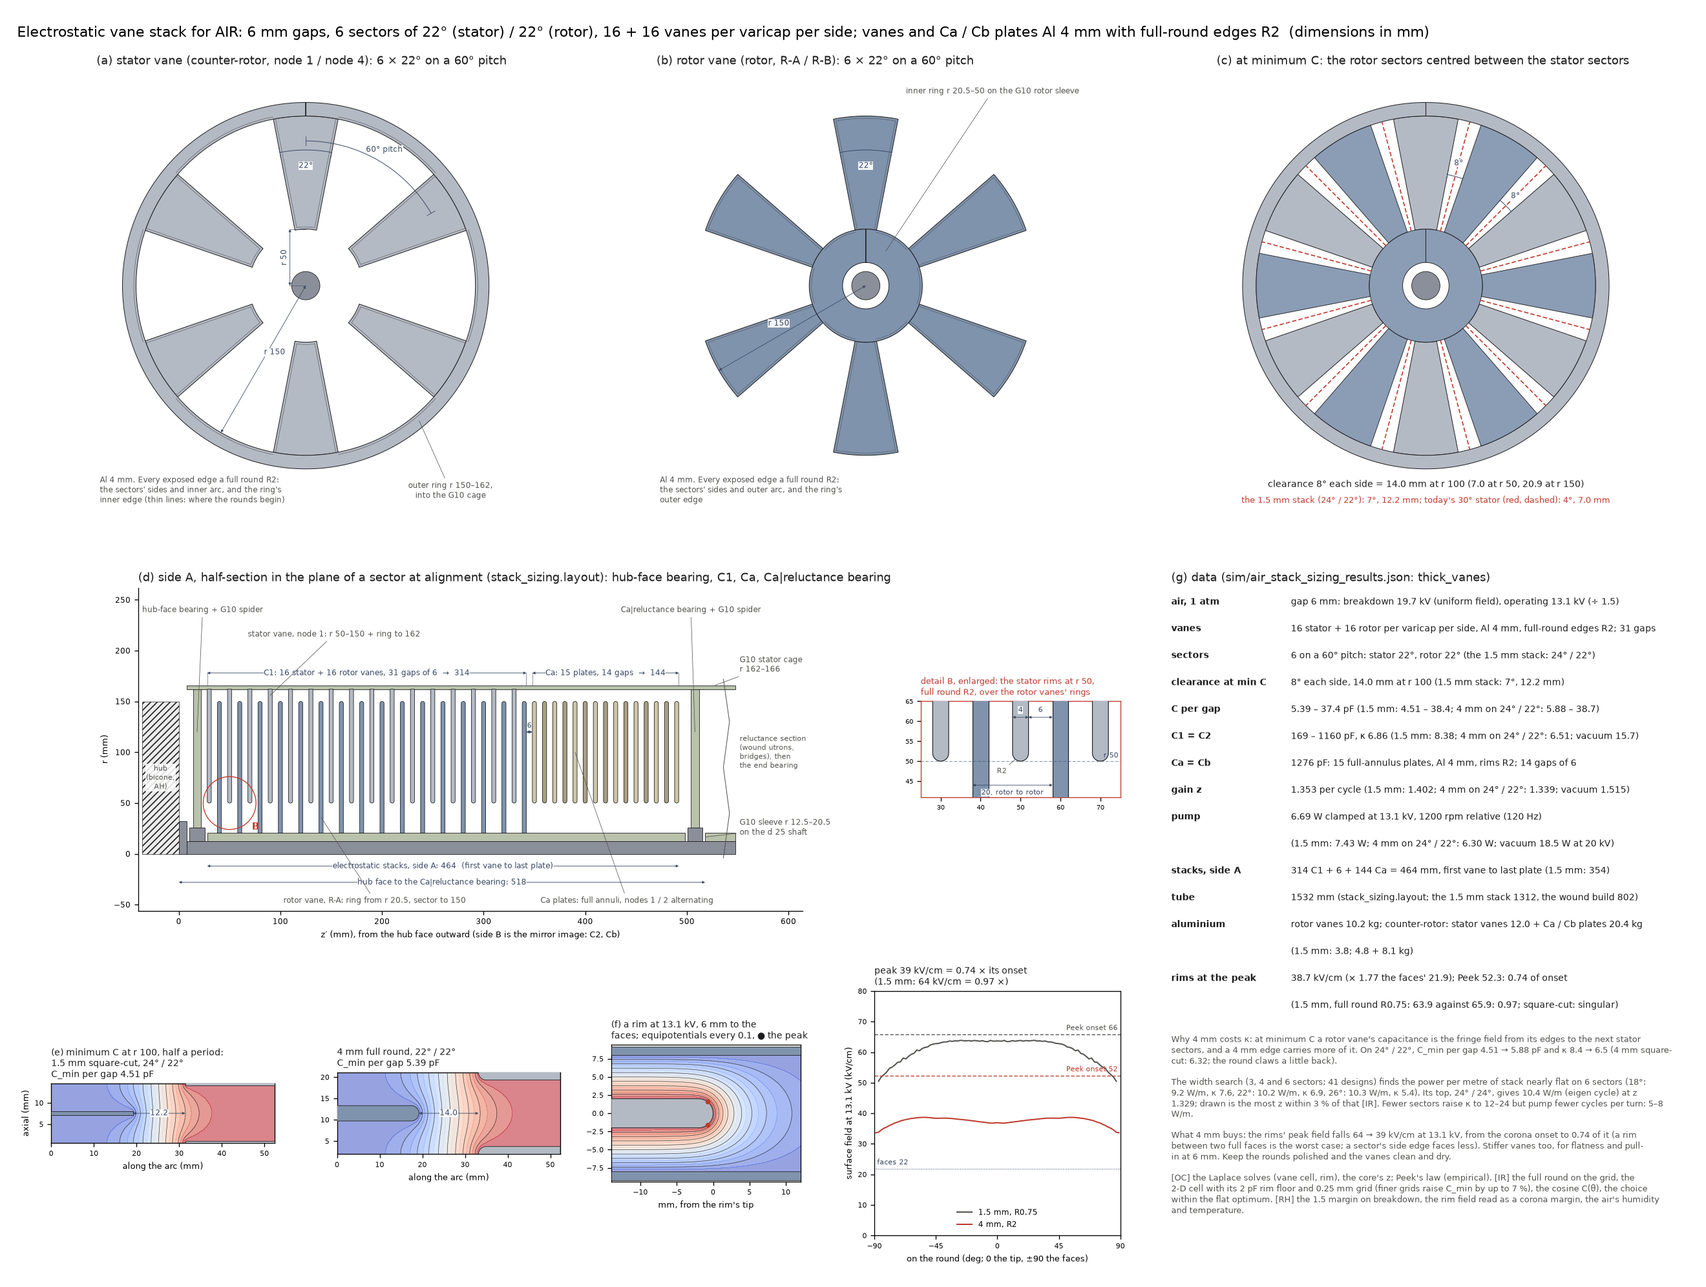
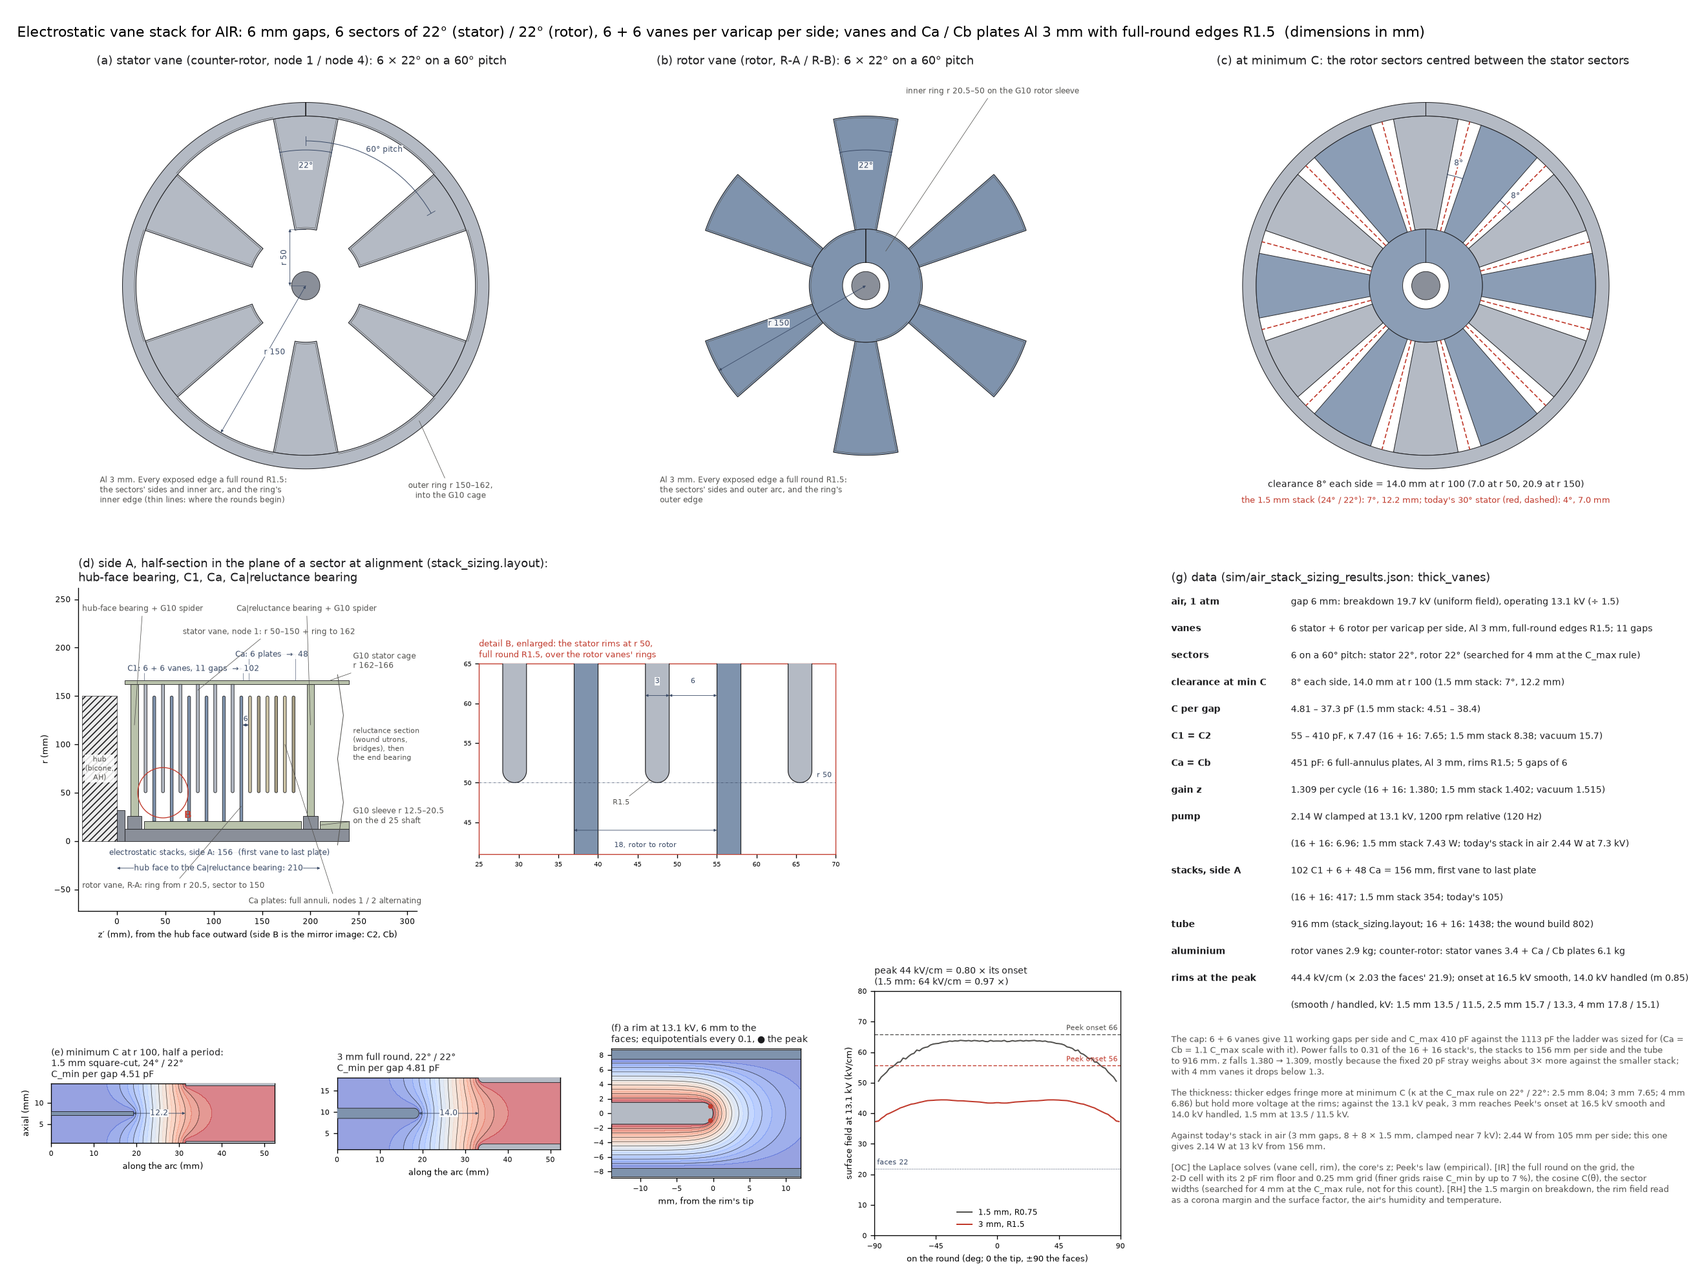
docs: air vane-stack drawing for the capped stack (3 mm full-round, 6 + 6 vanes)
The drawing picks its design on the command line (--t / --n, default
3 mm and 6 + 6) from the stage 4b / 4c results, sizes the half-section
to its stack with detail B beside it, and compares the data against the
same vanes at 16 + 16, the 1.5 mm stack and today's stack in air.

Claude-Session: https://claude.ai/code/session_019kWq1ZtzZgffamNAmjzqBU

diff --git a/docs/make_air_vane_drawing.py b/docs/make_air_vane_drawing.py
@@ -1,12 +1,13 @@
 """docs/make_air_vane_drawing.py -- writes docs/figures/air-vane-stack-6mm.png: the electrostatic vane stack for AIR
-(sim/air_stack_sizing.py, stage 4b 'chosen'): 6 mm gaps, 4 mm Al vanes and Ca / Cb plates with every exposed edge a
-full round (R = t / 2), on the sector widths searched again for those vanes.
+(sim/air_stack_sizing.py, stages 4b / 4c): 6 mm gaps, Al vanes and Ca / Cb plates with every exposed edge a full round
+(R = t / 2), on the sector widths searched for the full-round vanes.
   (a) a stator vane, (b) a rotor vane, (c) both at minimum C, with today's 30 deg stator dashed;
   (d) the half-section of side A from stack_sizing.layout (the elements that are built), with detail B: the rims;
   (e) the vane cell at minimum C at r 100 (sim/vane_cell): the 1.5 mm square-cut 24 / 22 deg stack against this one;
   (f) the rim's field: a vane edge between its neighbours' faces at the operating peak, against Peek's onset;
   (g) the data, from sim/air_stack_sizing_results.json.
-Usage: python3 docs/make_air_vane_drawing.py
+Usage: python3 docs/make_air_vane_drawing.py [--t 3 --n 6]   (the vane thickness and count, from stage 4c's
+       thick_compare rows or stage 4b's 'chosen'; default the designer's capped stack, 3 mm and 6 + 6)
 """
 import json
 import math
@@ -230,6 +231,14 @@ def rim_panel(axm, axp, t_new, g, v_op_kV, peaks):
                   loc="left", color=INK)
 
 
+def section_extent(lad, g):
+    """the half-section's data limits (z', r): from the hub to just past the Ca|reluctance bearing."""
+    el = lad["tube_geometry"]["elements"]
+    zf = [e for e in el if e["kind"] == "hub"][0]["z0"]
+    carel = [e for e in el if e["side"] == "A" and e["kind"] == "bearing" and e["where"] not in ("hub face", "end")][0]
+    return (-40.0, zf - carel["z0"] + g + 24.0 + 70.0), (-72.0, 262.0)
+
+
 def section_panel(ax, axd, lad, q, g):
     """(d) side A from stack_sizing.layout, z' from the hub's face outward; the vanes as sim/tube_geometry builds them
     (stator: sector + outer ring into the cage; rotor: inner ring from the sleeve + sector), full rounds on the rims."""
@@ -273,22 +282,22 @@ def section_panel(ax, axd, lad, q, g):
     v0, v1 = zz(vanes[0])[0], zz(vanes[-1])[1]
     p0, p1 = zz(plates[0])[0], zz(plates[-1])[1]
     n, nca = q["n_plates"], len(plates)
-    dim(ax, (v0, CAGE[1]), (v1, CAGE[1]), f"C1: {n} stator + {n} rotor vanes, {2 * n - 1} gaps of {g:g}  →  {v1 - v0:.0f}",
-        off=(0, 12))
-    dim(ax, (p0, CAGE[1]), (p1, CAGE[1]), f"Ca: {nca} plates, {nca - 1} gaps  →  {p1 - p0:.0f}", off=(0, 12))
+    dim(ax, (v0, CAGE[1]), (v1, CAGE[1]), f"C1: {n} + {n} vanes, {2 * n - 1} gaps  →  {v1 - v0:.0f}", off=(0, 12))
+    dim(ax, (p0, CAGE[1]), (p1, CAGE[1]), f"Ca: {nca} plates  →  {p1 - p0:.0f}", off=(0, 27))
     dim(ax, (v1, 120), (p0, 120), f"{p0 - v1:g}", fs=6.5, tx=(0, 6), ext=False)
     dim(ax, (v0, -12), (p1, -12), f"electrostatic stacks, side A: {p1 - v0:.0f}  (first vane to last plate)", ext=False)
     dim(ax, (0, -28), (zz(carel)[1], -28), f"hub face to the Ca|reluctance bearing: {zz(carel)[1]:.0f}", ext=False)
     note(ax, (0.5 * sum(zz(hubface)), 120), (-36, 236), "hub-face bearing + G10 spider", ha="left", va="bottom")
     note(ax, (0.5 * sum(zz(carel)), 120), (0.5 * sum(zz(carel)) - 4, 236), "Ca|reluctance bearing + G10 spider",
          ha="center", va="bottom")
-    s0 = [e for e in vanes if e["body"] == "stator"][3]
-    r0 = [e for e in vanes if e["body"] == "rotor"][5]
+    s0 = [e for e in vanes if e["body"] == "stator"][min(3, n - 1)]
+    r0 = [e for e in vanes if e["body"] == "rotor"][min(5, n - 1)]
     note(ax, (0.5 * sum(zz(s0)), 156), (v0 + 40, 212), f"stator vane, node 1: r {R_IN:g}–{R_OUT:g} + ring to "
          f"{R_OUT + RING:g}", ha="left", va="bottom")
-    note(ax, (0.5 * sum(zz(r0)), 36), (v0 + 75, -46), f"rotor vane, R-A: ring from r {SLEEVE:g}, sector to {R_OUT:g}",
+    note(ax, (0.5 * sum(zz(r0)), 36), (-36, -46), f"rotor vane, R-A: ring from r {SLEEVE:g}, sector to {R_OUT:g}",
          ha="left")
-    note(ax, (0.5 * sum(zz(plates[4])), 100), (p0 + 8, -46), "Ca plates: full annuli, nodes 1 / 2 alternating", ha="left")
+    note(ax, (0.5 * sum(zz(plates[min(4, nca - 1)])), 100), (p0, -62), "Ca plates: full annuli, nodes 1 / 2 alternating",
+         ha="left")
     note(ax, (z_end - 20, CAGE[1]), (z_end + 4, 186), f"G10 stator cage\nr {CAGE[0]:g}–{CAGE[1]:g}", ha="left")
     note(ax, (z_end - 30, 0.5 * (SHAFT + SLEEVE)), (z_end + 4, 26), f"G10 sleeve r {SHAFT:g}–{SLEEVE:g}\non the d {2 * SHAFT:g} "
          "shaft", ha="left")
@@ -296,7 +305,8 @@ def section_panel(ax, axd, lad, q, g):
     zbc = 0.5 * (zs[0][0] + zs[4][1])
     ax.add_patch(Circle((zbc, R_IN), 26, fill=False, ec=OLD, lw=0.8, zorder=7))
     ax.text(zbc + 22, R_IN - 26, "B", fontsize=9, color=OLD, weight="bold", zorder=7)
-    ax.set_aspect("equal"); ax.set_xlim(-40, z_end + 66); ax.set_ylim(-56, 262)
+    (xa, xb), (ya, yb) = section_extent(lad, g)
+    ax.set_aspect("equal"); ax.set_xlim(xa, xb); ax.set_ylim(ya, yb)
     ax.set_xlabel("z′ (mm), from the hub face outward (side B is the mirror image: C2, Cb)", fontsize=8)
     ax.set_ylabel("r (mm)", fontsize=8)
     ax.tick_params(labelsize=7)
@@ -327,13 +337,27 @@ def section_panel(ax, axd, lad, q, g):
 
 
 # ------------------------------------------------------------------------------------------------------------ the sheet
-def main():
+def pick(tv, t, n):
+    """the drawn design: a stage 4c row (t, n), or stage 4b's chosen stack."""
+    rows = [q for q in tv.get("compare", []) if q["t_vaneMm"] == t and q["n_plates"] == n]
+    if rows:
+        return rows[0]
+    c = tv["chosen"]
+    assert (c["t_vaneMm"], c["n_plates"]) == (t, n), f"no results for {t} mm, {n} + {n}: run air_stack_sizing --thick-compare"
+    return c
+
+
+def main(t_sel=3.0, n_sel=6):
     res = json.load(open(os.path.join(SIM, "air_stack_sizing_results.json")))
     tv = res["thick_vanes"]
-    q = tv["chosen"]
-    old, sq4, same = tv["rows"]                                  # 1.5 square, 4 square, 4 round: all on 24 / 22 deg
+    q = pick(tv, t_sel, n_sel)
+    rule = [r for r in tv.get("compare", []) + [tv["chosen"]] if r["t_vaneMm"] == q["t_vaneMm"] and r.get("n_rule", True)
+            and r["n_plates"] >= q["n_plates"]]
+    qr = rule[0] if rule and rule[0]["n_plates"] != q["n_plates"] else None      # the same vanes at the C_max rule
+    old = tv["rows"][0]                                          # the stage 2 stack: 1.5 mm square-cut, 24 / 22 deg
+    built = res["gap_sweep"][0]                                  # today's stack in air (3 mm gaps, 8 + 8 x 1.5 mm)
     vac = res["base_vacuum"]
-    assert (old["t_vaneMm"], old["edge"], sq4["edge"], same["edge"]) == (1.5, "square", "square", "round")
+    assert (old["t_vaneMm"], old["edge"], built["gap_mm"]) == (1.5, "square", 3.0)
     ns, ws, wr, g, n, t = q["sectors"], q["ws_deg"], q["wr_deg"], q["gap_mm"], q["n_plates"], q["t_vaneMm"]
     R, per = 0.5 * t, 360.0 / ns
     ws_today = SS.TUBE_DEFAULTS["ws_deg"]
@@ -343,9 +367,9 @@ def main():
     assert abs(lad["tube_caps"]["C_max"] / q["C_max_pF"] - 1) < 1e-9
     assert abs(AS.es_lengths(lad["tube_geometry"])[0] - q["L_es_side_mm"]) < 1e-9
     v_op = q["V_op_kV"]
-    best = tv["best"]
-    ok = [s for s in tv["search"] if s["z"] >= 1.3]
-    s6 = sorted([s for s in tv["search"] if s["sectors"] == 6 and s["ws_deg"] == s["wr_deg"]], key=lambda s: s["ws_deg"])
+    rims = {e["t_mm"]: e for e in tv["rim_field"]}
+    onset = lambda e, m=1.0: m * v_op * e["peek_kV_cm"] / e["E_peak_kV_cm"]     # the peak at which the rim reaches onset
+    rim, rim15 = rims[t], rims[1.5]
 
     fig = plt.figure(figsize=(22, 16.6), facecolor="white")
     gs = fig.add_gridspec(3, 3, height_ratios=(1.0, 0.74, 0.56), width_ratios=(1, 1, 1.0), hspace=0.24, wspace=0.10,
@@ -396,11 +420,18 @@ def main():
                      f"{ws_today:g}° stator (red, dashed): {clr_today:g}°, {100 * math.radians(clr_today):.1f} mm",
             fontsize=8.0, color=OLD, ha="center")
 
-    # (d) the half-section of side A, with detail B
-    sub = gs[1, 0:2].subgridspec(1, 2, width_ratios=(4.2, 1.0), wspace=0.06)
-    ax, axd = fig.add_subplot(sub[0, 0]), fig.add_subplot(sub[0, 1])
+    # (d) the half-section of side A, sized to its content, with detail B beside it
+    FW, FH = fig.get_size_inches()
+    bb = gs[1, 0:2].get_position(fig)
+    (xa, xb), (ya, yb) = section_extent(lad, g)
+    h_in = bb.height * FH
+    w_in = min(h_in * (xb - xa) / (yb - ya), bb.width * FW - 4.2)
+    h_in = w_in * (yb - ya) / (xb - xa)
+    ax = fig.add_axes([bb.x0 + 0.35 / FW, bb.y1 - h_in / FH, w_in / FW, h_in / FH])
+    w_d = min(4.6, bb.width * FW - w_in - 1.3)
+    axd = fig.add_axes([bb.x0 + (0.35 + w_in + 0.8) / FW, bb.y0 + 0.16 * bb.height, w_d / FW, 0.62 * bb.height])
     section_panel(ax, axd, lad, q, g)
-    ax.set_title("(d) side A, half-section in the plane of a sector at alignment (stack_sizing.layout): hub-face bearing, "
+    ax.set_title("(d) side A, half-section in the plane of a sector at alignment (stack_sizing.layout):\nhub-face bearing, "
                  "C1, Ca, Ca|reluctance bearing", fontsize=10.5, loc="left", color=INK)
 
     # (e) the vane cell at minimum C: the 1.5 mm stack against this one
@@ -419,47 +450,45 @@ def main():
     # (f) the rim
     pf = gs[2, 1].subgridspec(1, 2, width_ratios=(1.0, 1.3), wspace=0.34)
     axm, axp = fig.add_subplot(pf[0, 0]), fig.add_subplot(pf[0, 1])
-    rim_panel(axm, axp, t, g, v_op, tv["rim_field"])
+    rim_panel(axm, axp, t, g, v_op, (rim15, rim))
     axm.set_title(f"(f) a rim at {v_op:.1f} kV, {g:g} mm to the\nfaces; equipotentials every 0.1, ● the peak",
                   fontsize=8.3, loc="left", color=INK)
 
     # (g) the data
     axt = fig.add_subplot(gs[1:, 2]); axt.axis("off")
-    rim15, rim4 = tv["rim_field"]
     L_var, L_ca = q["L_varicap_mm"], q["L_es_side_mm"] - q["L_varicap_mm"] - g
     P_old = res["best_per_gap"][0]["P_clamped_W"]
+    nr = qr["n_plates"] if qr else None
+    ref = (lambda key, f="{:.2f}": f"{nr} + {nr}: " + f.format(qr[key]) + "; ") if qr else (lambda key, f="": "")
     rows = [
         ("air, 1 atm", f"gap {g:g} mm: breakdown {res['gap_sweep'][2]['V_bd_kV']:.1f} kV (uniform field), operating "
                        f"{v_op:.1f} kV (÷ {res['margin']:.1f})"),
         ("vanes", f"{n} stator + {n} rotor per varicap per side, Al {t:g} mm, full-round edges R{R:g}; {2 * n - 1} gaps"),
-        ("sectors", f"{ns} on a {per:g}° pitch: stator {ws:g}°, rotor {wr:g}° (the 1.5 mm stack: 24° / 22°)"),
+        ("sectors", f"{ns} on a {per:g}° pitch: stator {ws:g}°, rotor {wr:g}° (searched for 4 mm at the C_max rule)"),
         ("clearance at min C", f"{clr:g}° each side, {100 * math.radians(clr):.1f} mm at r 100 (1.5 mm stack: {clr_old:.0f}°, "
                                f"{100 * math.radians(clr_old):.1f} mm)"),
-        ("C per gap", f"{q['per_gap_min_pF']:.2f} – {q['per_gap_max_pF']:.1f} pF (1.5 mm: {old['per_gap_min_pF']:.2f} – "
-                      f"{old['per_gap_max_pF']:.1f}; 4 mm on 24° / 22°: {same['per_gap_min_pF']:.2f} – "
-                      f"{same['per_gap_max_pF']:.1f})"),
-        ("C1 = C2", f"{q['C_min_pF']:.0f} – {q['C_max_pF']:.0f} pF, κ {q['kappa']:.2f} (1.5 mm: {old['kappa']:.2f}; "
-                    f"4 mm on 24° / 22°: {same['kappa']:.2f}; vacuum {vac['kappa']:.1f})"),
+        ("C per gap", f"{q['per_gap_min_pF']:.2f} – {q['per_gap_max_pF']:.1f} pF (1.5 mm stack: {old['per_gap_min_pF']:.2f} – "
+                      f"{old['per_gap_max_pF']:.1f})"),
+        ("C1 = C2", f"{q['C_min_pF']:.0f} – {q['C_max_pF']:.0f} pF, κ {q['kappa']:.2f} ({ref('kappa')}1.5 mm stack "
+                    f"{old['kappa']:.2f}; vacuum {vac['kappa']:.1f})"),
         ("Ca = Cb", f"{q['Ca_pF']:.0f} pF: {q['n_gap_ca'] + 1} full-annulus plates, Al {t:g} mm, rims R{R:g}; "
                     f"{q['n_gap_ca']} gaps of {g:g}"),
-        ("gain z", f"{q['z']:.3f} per cycle (1.5 mm: {old['z']:.3f}; 4 mm on 24° / 22°: {same['z']:.3f}; vacuum "
-                   f"{vac['z']:.3f})"),
+        ("gain z", f"{q['z']:.3f} per cycle ({ref('z', '{:.3f}')}1.5 mm stack {old['z']:.3f}; vacuum {vac['z']:.3f})"),
         ("pump", f"{q['P_clamped_W']:.2f} W clamped at {v_op:.1f} kV, {res['rpm']:.0f} rpm relative "
                  f"({q['cycles_per_rev'] * res['rpm'] / 60:.0f} Hz)"),
-        ("", f"(1.5 mm: {P_old:.2f} W; 4 mm on 24° / 22°: {same['P_clamped_W']:.2f} W; vacuum {vac['P_clamped_W']:.1f} W "
-             f"at 20 kV)"),
-        ("stacks, side A", f"{L_var:g} C1 + {g:g} + {L_ca:g} Ca = {q['L_es_side_mm']:.0f} mm, first vane to last plate "
-                           f"(1.5 mm: {old['L_es_side_mm']:.0f})"),
-        ("tube", f"{q['L_tube_mm']:.0f} mm (stack_sizing.layout; the 1.5 mm stack {old['L_tube_mm']:.0f}, the wound build "
+        ("", f"({ref('P_clamped_W')}1.5 mm stack {P_old:.2f} W; today's stack in air {built['P_clamped_W']:.2f} W at "
+             f"{built['V_op_kV']:.1f} kV)"),
+        ("stacks, side A", f"{L_var:g} C1 + {g:g} + {L_ca:g} Ca = {q['L_es_side_mm']:.0f} mm, first vane to last plate"),
+        ("", f"({ref('L_es_side_mm', '{:.0f}')}1.5 mm stack {old['L_es_side_mm']:.0f}; today's {built['L_es_side_mm']:.0f})"),
+        ("tube", f"{q['L_tube_mm']:.0f} mm (stack_sizing.layout; {ref('L_tube_mm', '{:.0f}')}the wound build "
                  f"{vac['L_tube_mm']:.0f})"),
         ("aluminium", f"rotor vanes {q['rotor_vanes_kg']:.1f} kg; counter-rotor: stator vanes {q['stator_vanes_kg']:.1f} + "
                       f"Ca / Cb plates {q['ca_plates_kg']:.1f} kg"),
-        ("", f"(1.5 mm: {old['rotor_vanes_kg']:.1f}; {old['stator_vanes_kg']:.1f} + {old['ca_plates_kg']:.1f} kg)"),
-        ("rims at the peak", f"{rim4['E_peak_kV_cm']:.1f} kV/cm (× {rim4['enhancement']:.2f} the faces' "
-                             f"{rim4['E_face_kV_cm']:.1f}); Peek {rim4['peek_kV_cm']:.1f}: {rim4['ratio_to_onset']:.2f} of "
-                             f"onset"),
-        ("", f"(1.5 mm, full round R0.75: {rim15['E_peak_kV_cm']:.1f} against {rim15['peek_kV_cm']:.1f}: "
-             f"{rim15['ratio_to_onset']:.2f}; square-cut: singular)"),
+        ("rims at the peak", f"{rim['E_peak_kV_cm']:.1f} kV/cm (× {rim['enhancement']:.2f} the faces' "
+                             f"{rim['E_face_kV_cm']:.1f}); onset at {onset(rim):.1f} kV smooth, {onset(rim, 0.85):.1f} kV "
+                             f"handled (m 0.85)"),
+        ("", "(smooth / handled, kV: " + ", ".join(f"{e['t_mm']:g} mm {onset(e):.1f} / {onset(e, 0.85):.1f}"
+                                                    for e in tv["rim_field"] if e["t_mm"] != t) + ")"),
     ]
     axt.set_title("(g) data (sim/air_stack_sizing_results.json: thick_vanes)", fontsize=10.5, loc="left", color=INK)
     y = 0.985
@@ -467,30 +496,32 @@ def main():
         axt.text(0.0, y, k, fontsize=8.4, weight="bold", color=INK, transform=axt.transAxes, va="top")
         axt.text(0.235, y, v, fontsize=8.4, color=INK, transform=axt.transAxes, va="top")
         y -= 0.0415
-    knee = ", ".join(f"{s['ws_deg']:g}°: {s['P_eigen_per_m']:.1f} W/m, κ {s['kappa']:.1f}" for s in s6
-                     if s["ws_deg"] in (18.0, 22.0, 26.0))
-    paras = [
-        "Why 4 mm costs κ: at minimum C a rotor vane's capacitance is the fringe field from its edges to the next stator "
-        f"sectors, and a 4 mm edge carries more of it. On 24° / 22°, C_min per gap {old['per_gap_min_pF']:.2f} → "
-        f"{same['per_gap_min_pF']:.2f} pF and κ {old['kappa']:.1f} → {same['kappa']:.1f} (4 mm square-cut: "
-        f"{sq4['kappa']:.2f}; the round claws a little back).",
-        f"The width search (3, 4 and 6 sectors; {len(tv['search'])} designs) finds the power per metre of stack nearly flat "
-        f"on 6 sectors ({knee}). Its top, {best['ws_deg']:g}° / {best['wr_deg']:g}°, gives {best['P_eigen_per_m']:.1f} W/m "
-        f"(eigen cycle) at z {best['z']:.3f}; drawn is the most z within {100 * tv['knee']:.0f} % of that [IR]. Fewer "
-        "sectors raise κ to 12–24 but pump fewer cycles per turn: 5–8 W/m.",
-        f"What 4 mm buys: the rims' peak field falls {rim15['E_peak_kV_cm']:.0f} → {rim4['E_peak_kV_cm']:.0f} kV/cm at "
-        f"{v_op:.1f} kV, from the corona onset to {rim4['ratio_to_onset']:.2f} of it (a rim between two full faces is the "
-        "worst case; a sector's side edge faces less). Stiffer vanes too, for flatness and pull-in at 6 mm. Keep the rounds "
-        "polished and the vanes clean and dry.",
+    kap = "; ".join(f"{r['t_vaneMm']:g} mm {r['kappa']:.2f}" for r in sorted(
+        [r for r in tv.get("compare", []) + [tv["chosen"]] if r.get("n_rule", True)], key=lambda r: r["t_vaneMm"]))
+    paras = []
+    if qr:
+        paras.append(
+            f"The cap: {n} + {n} vanes give {2 * n - 1} working gaps per side and C_max {q['C_max_pF']:.0f} pF against the "
+            f"{vac['C_max_pF']:.0f} pF the ladder was sized for (Ca = Cb = 1.1 C_max scale with it). Power falls to "
+            f"{q['P_clamped_W'] / qr['P_clamped_W']:.2f} of the {nr} + {nr} stack's, the stacks to {q['L_es_side_mm']:.0f} mm "
+            f"per side and the tube to {q['L_tube_mm']:.0f} mm. z falls {qr['z']:.3f} → {q['z']:.3f}, mostly because the "
+            "fixed 20 pF stray weighs about 3× more against the smaller stack; with 4 mm vanes it drops below 1.3.")
+    paras += [
+        f"The thickness: thicker edges fringe more at minimum C (κ at the C_max rule on {ws:g}° / {wr:g}°: {kap}) but "
+        f"hold more voltage at the rims; against the {v_op:.1f} kV peak, {t:g} mm reaches Peek's onset at "
+        f"{onset(rim):.1f} kV smooth and {onset(rim, 0.85):.1f} kV handled, 1.5 mm at {onset(rim15):.1f} / "
+        f"{onset(rim15, 0.85):.1f} kV.",
+        f"Against today's stack in air (3 mm gaps, 8 + 8 × 1.5 mm, clamped near {built['V_op_kV']:.0f} kV): "
+        f"{built['P_clamped_W']:.2f} W from {built['L_es_side_mm']:.0f} mm per side; this one gives "
+        f"{q['P_clamped_W']:.2f} W at {v_op:.0f} kV from {q['L_es_side_mm']:.0f} mm.",
         "[OC] the Laplace solves (vane cell, rim), the core's z; Peek's law (empirical). [IR] the full round on the grid, "
         "the 2-D cell with its 2 pF rim floor and 0.25 mm grid (finer grids raise C_min by up to 7 %), the cosine C(θ), "
-        "the choice within the flat optimum. [RH] the 1.5 margin on breakdown, the rim field read as a corona margin, the "
-        "air's humidity and temperature.",
+        "the sector widths (searched for 4 mm at the C_max rule, not for this count). [RH] the 1.5 margin on breakdown, "
+        "the rim field read as a corona margin and the surface factor, the air's humidity and temperature.",
     ]
     import textwrap
     notes = "\n\n".join(textwrap.fill(x, 118) for x in paras)
     axt.text(0.0, y - 0.01, notes, fontsize=7.9, color=INK2, transform=axt.transAxes, va="top")
-    del ok
 
     os.makedirs(os.path.dirname(OUT), exist_ok=True)
     fig.savefig(OUT, dpi=120)
@@ -499,4 +530,9 @@ def main():
 
 
 if __name__ == "__main__":
-    main()
+    import argparse
+    ap = argparse.ArgumentParser()
+    ap.add_argument("--t", type=float, default=3.0, help="vane thickness, mm")
+    ap.add_argument("--n", type=int, default=6, help="vanes per varicap per side (stator = rotor)")
+    a = ap.parse_args()
+    main(a.t, a.n)

diff --git a/CHANGELOG.md b/CHANGELOG.md
@@ -85,6 +85,11 @@ Format adapted from [Keep a Changelog](https://keepachangelog.com/). Git holds t
   - that is fine for diodes only, but not for the spark-gap dump: its 21 A pulses need a brush.
 
 ### Docs
+- **The air vane-stack drawing now shows the capped stack** (`docs/make_air_vane_drawing.py --t 3 --n 6`, the default):
+  3 mm full-round vanes and plates, 6 + 6 vanes per varicap per side.
+  - **Any sized design:** `--t` / `--n` pick any stage 4b / 4c row, e.g. `--t 4 --n 16` for the earlier sheet.
+  - **Layout:** the half-section is sized to its stack, with detail B beside it.
+  - **Data:** compared against the same vanes at 16 + 16, the 1.5 mm stack and today's stack in air.
 - **Drawing of the air vane stack** (`docs/figures/air-vane-stack-6mm.png`, generator `docs/make_air_vane_drawing.py`).
   It shows the chosen 6 mm design: 6 × 22° / 22°, 16 + 16 vanes, 4 mm Al vanes and Ca / Cb plates with full-round edges.
   - **Plans:** the stator vane and the rotor vane, with the rounds' tangent lines; both at minimum C, against
